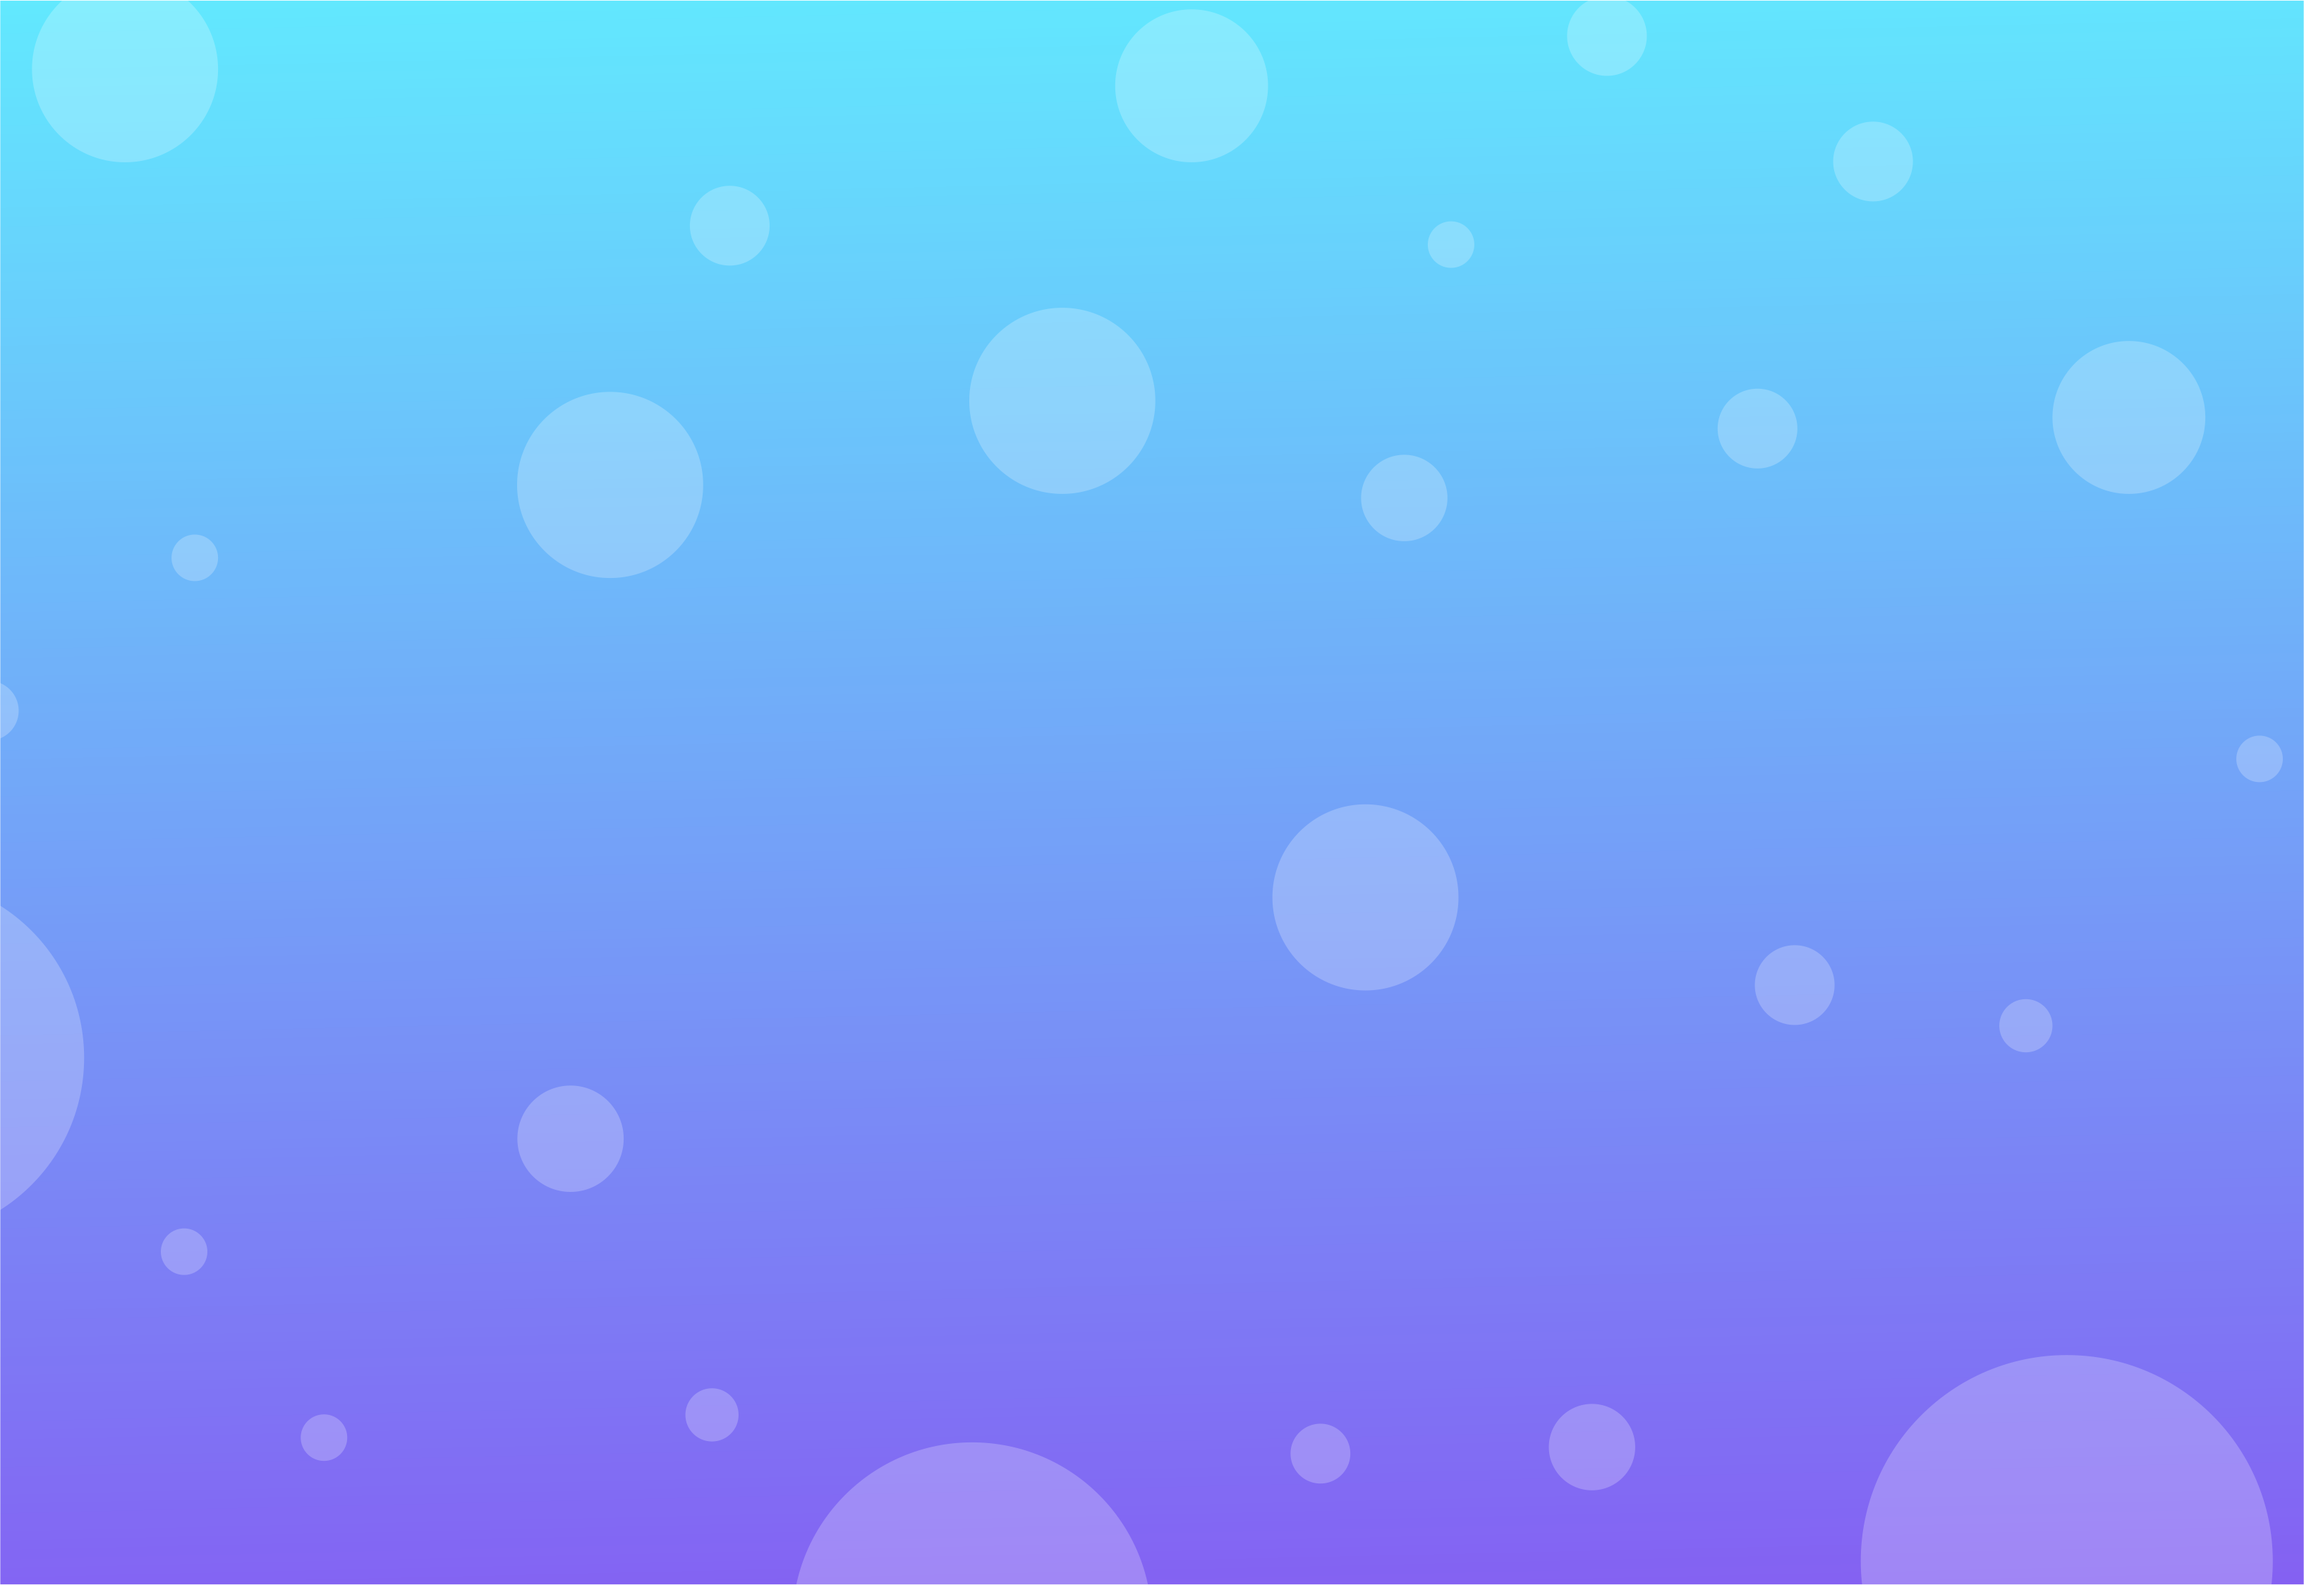
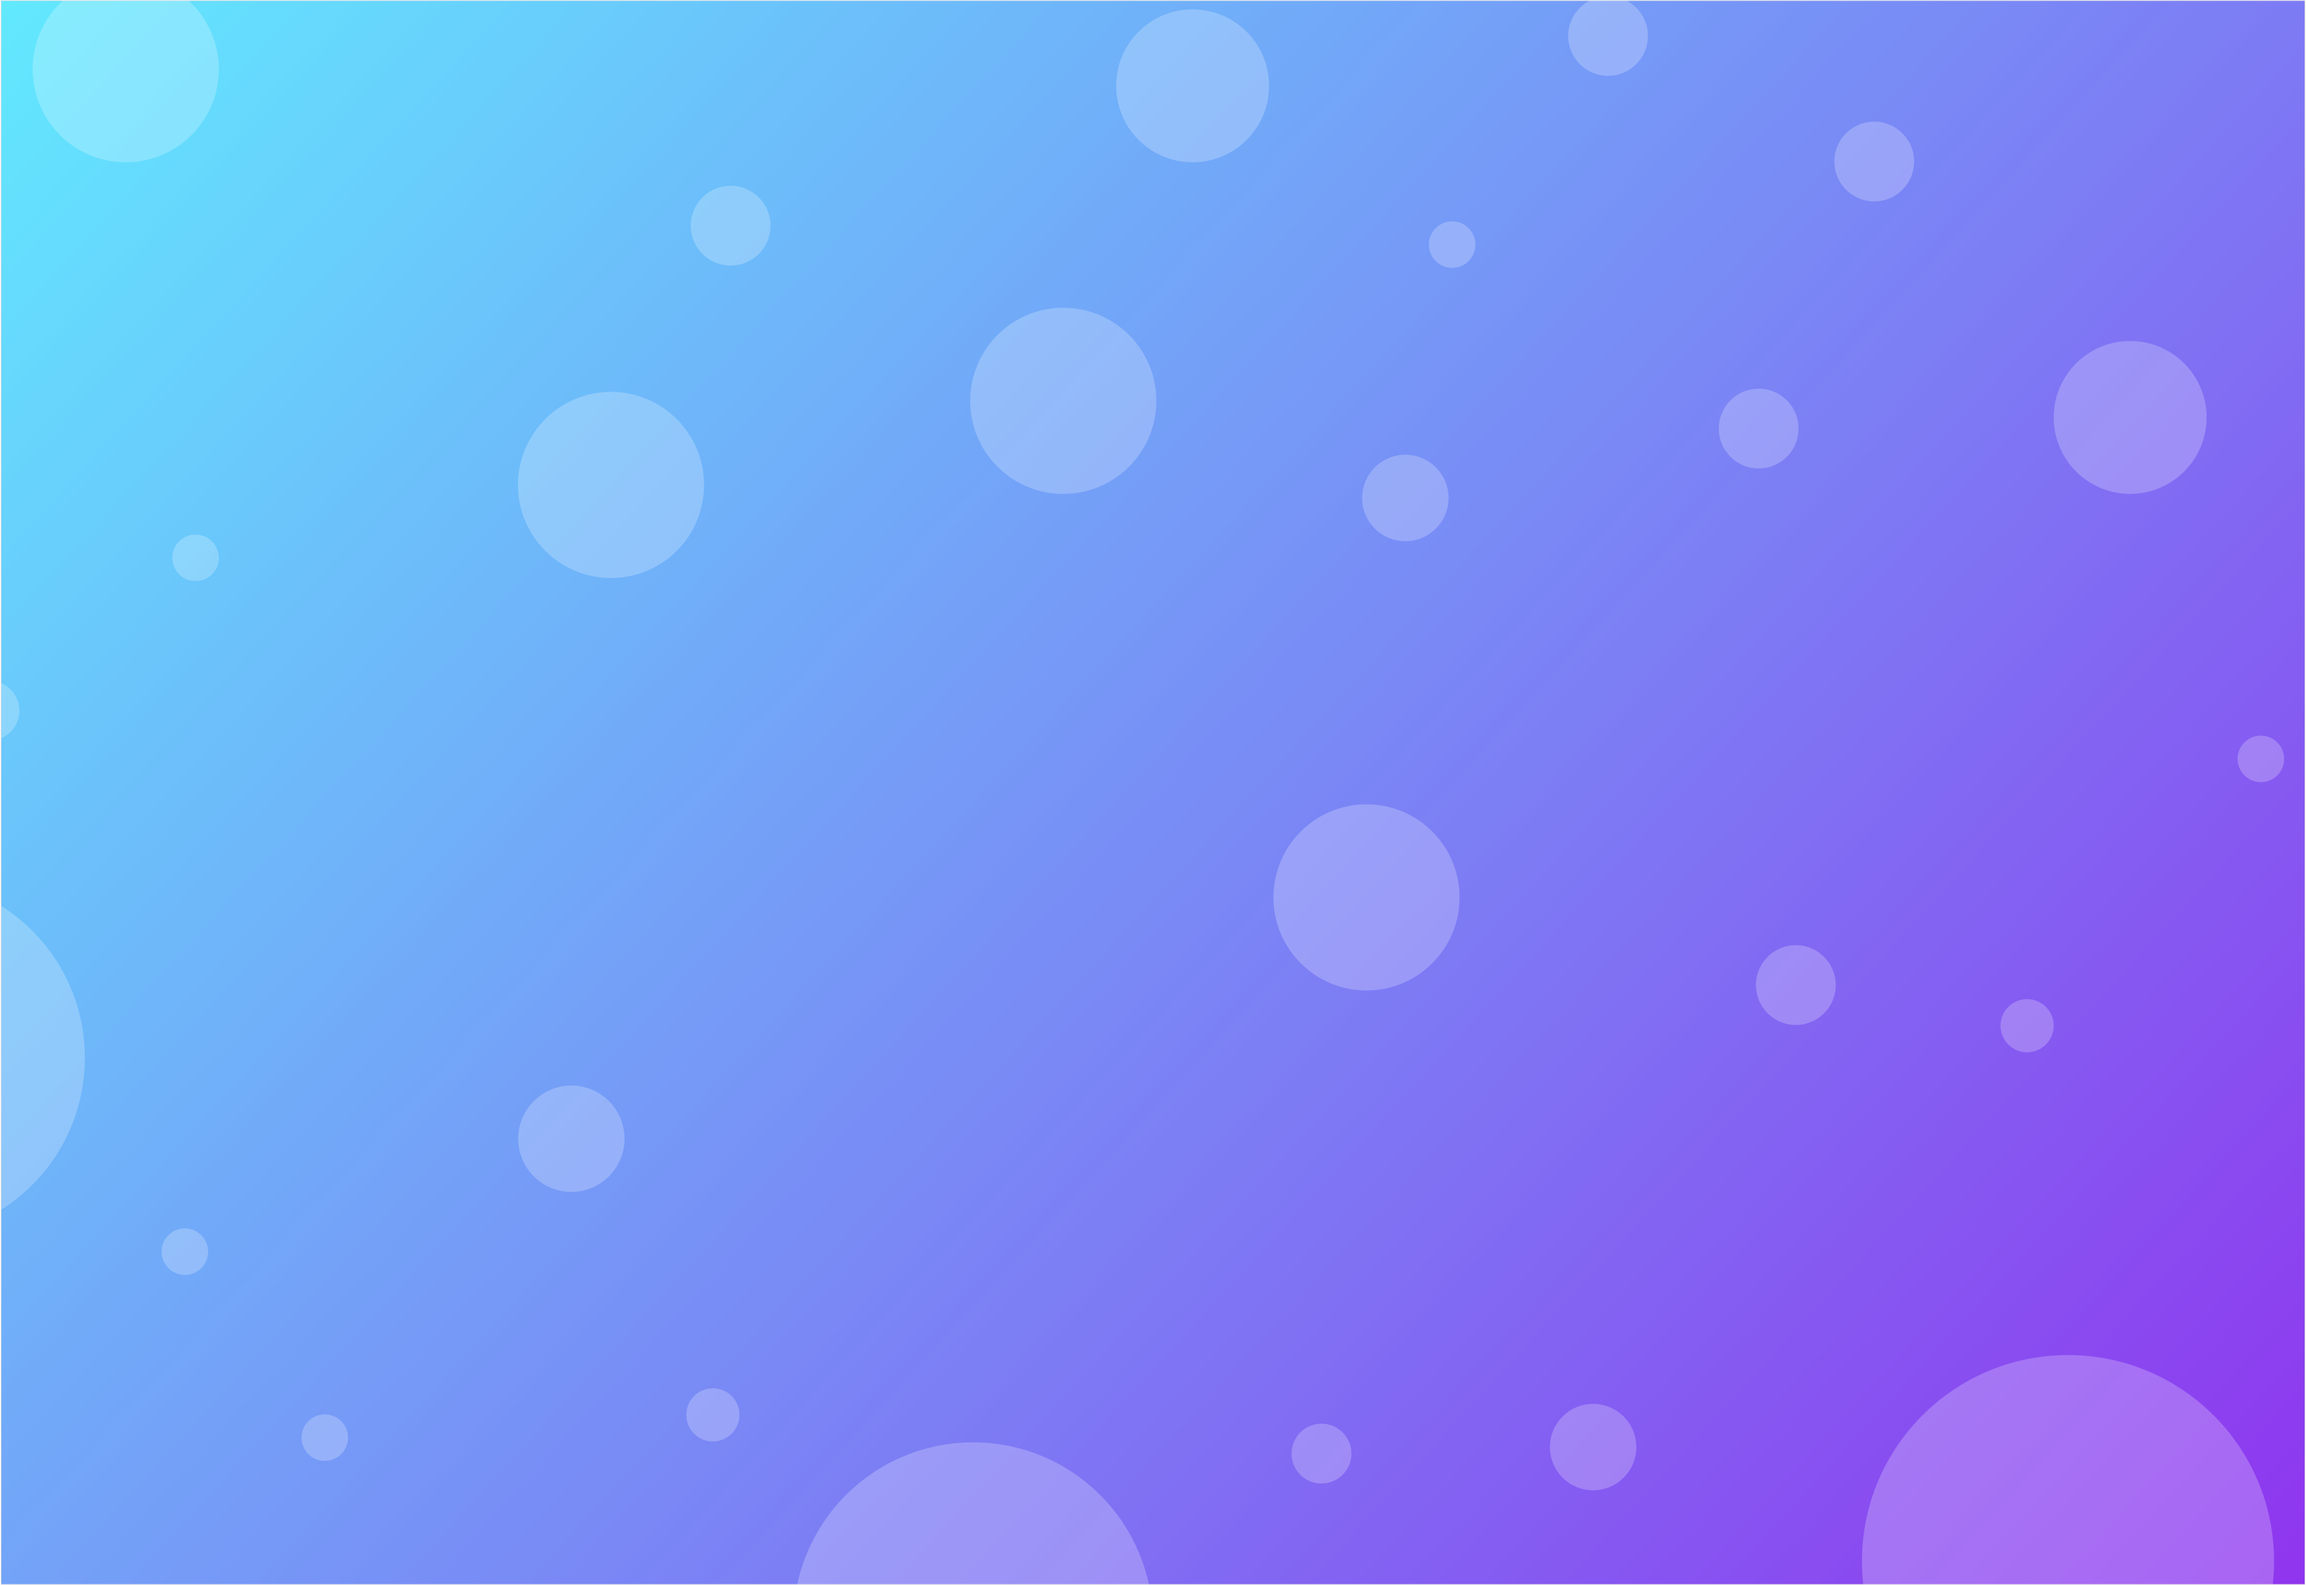
menggelapkan landing page wkwk

diff --git a/public/css/home.css b/public/css/home.css
@@ -30,7 +30,8 @@ header{
     background-image: url(../image/bg-landing%20page.png);
     background-size: cover;
     background-repeat: no-repeat;
-    max-height: 1080px;
+    max-height: 1400px;
+    max-width: 110vw;
 }
 header div {
     display: inline-block;
@@ -50,7 +51,7 @@ header .header-kiri div {
     letter-spacing: 0px;
     animation: text 2s 1;
     /*    animation-delay: 2.1s;*/
-    margin-top: 250px;
+    margin-top: 200px;
     color: white;
     font-weight: 700;
     opacity: 1.0;
@@ -313,7 +314,7 @@ footer .copyright {
     
     .header-kanan img{
         width: 60%;
-        margin-top: 15%;
+        margin-top: 10%;
         align-content: center;
         margin-left: 200px;;
     }
@@ -324,10 +325,13 @@ footer .copyright {
         width: 80%;
     }
 
-    .title {}
+    .title {
+        font-size: 35pt;
+    }
 
     .description {
-        margin-top: 40px;
+        margin-top: 10px;
+        font-size: 13pt;
     }
 
     header .header-kiri div {
@@ -337,9 +341,15 @@ footer .copyright {
 }
 
 @media screen and (max-width: 720px) {
+    header{
+        max-height: 500vh;
+        background-size: cover;
+    }
     .header-kanan img {
         width: 60%;
     }
+    
+    
     
     footer{
         margin-top: 10px;

diff --git a/public/css/register.css b/public/css/register.css
@@ -43,7 +43,7 @@
 }
 
 .navbar-laravel {
-    background-image: linear-gradient(180deg, #73A3F8, #63E4FE);
+    background-image: linear-gradient(130deg, #62E7FE, #7D7BF4);
 }
 
 .navbar-light .navbar-nav .nav-link:hover {
@@ -56,7 +56,7 @@
     border-radius: 30px;
     width: 100%;
     border-radius: 30px;
-    margin-top: 10vh;
+    margin-top: 3vh;
     animation: ani 1.5s 1;
     background-color: white;
     left: 50%;

diff --git a/public/css/login.css b/public/css/login.css
@@ -48,7 +48,7 @@
 }
 
 .navbar-laravel{
-    background-image: linear-gradient(180deg, #73A3F8, #63E4FE);
+    background-image: linear-gradient(130deg, #62E7FE, #7D7BF4);
 }
 
 .cards {

diff --git a/public/css/kompetisi.css b/public/css/kompetisi.css
@@ -17,7 +17,7 @@
     transform: scale(1.2);
 }
 
-.navbar-light .navbar-nav .nav-link{
+ .nav-link{
     color: white;
     font-size: 13pt;
     font-family: 'Montserrat';

diff --git a/resources/views/welcome.blade.php b/resources/views/welcome.blade.php
@@ -51,7 +51,12 @@
             text-align: center;
             display: none;
         }
-
+        
+        .card{
+            background-color: #F9FBFC;
+            border: none;
+        }
+        
         .links>a {
             margin-top: 20px;
             font-family: 'Montserrat';
